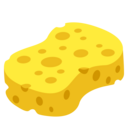
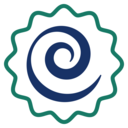
Updated screenshots

diff --git a/TranslocatorRepairMod/README.md b/TranslocatorRepairMod/README.md
@@ -1,7 +1,7 @@
 # GildedChronicles - Translocator Repair
 
-[![A sereph in front of a Translocator](Screenshots/Main.png)](https://mods.vintagestory.at/show/mod/39775)
+[![A sereph in front of a Translocator](Screenshots/Main.png)](https://mods.vintagestory.at/show/mod/53158)
 
-Mod URL: [https://mods.vintagestory.at/show/mod/39775](https://mods.vintagestory.at/show/mod/39775)
+Mod URL: [https://mods.vintagestory.at/show/mod/53158](https://mods.vintagestory.at/show/mod/53158)
 
 Adds the ability to repair an unrepairable translocator.